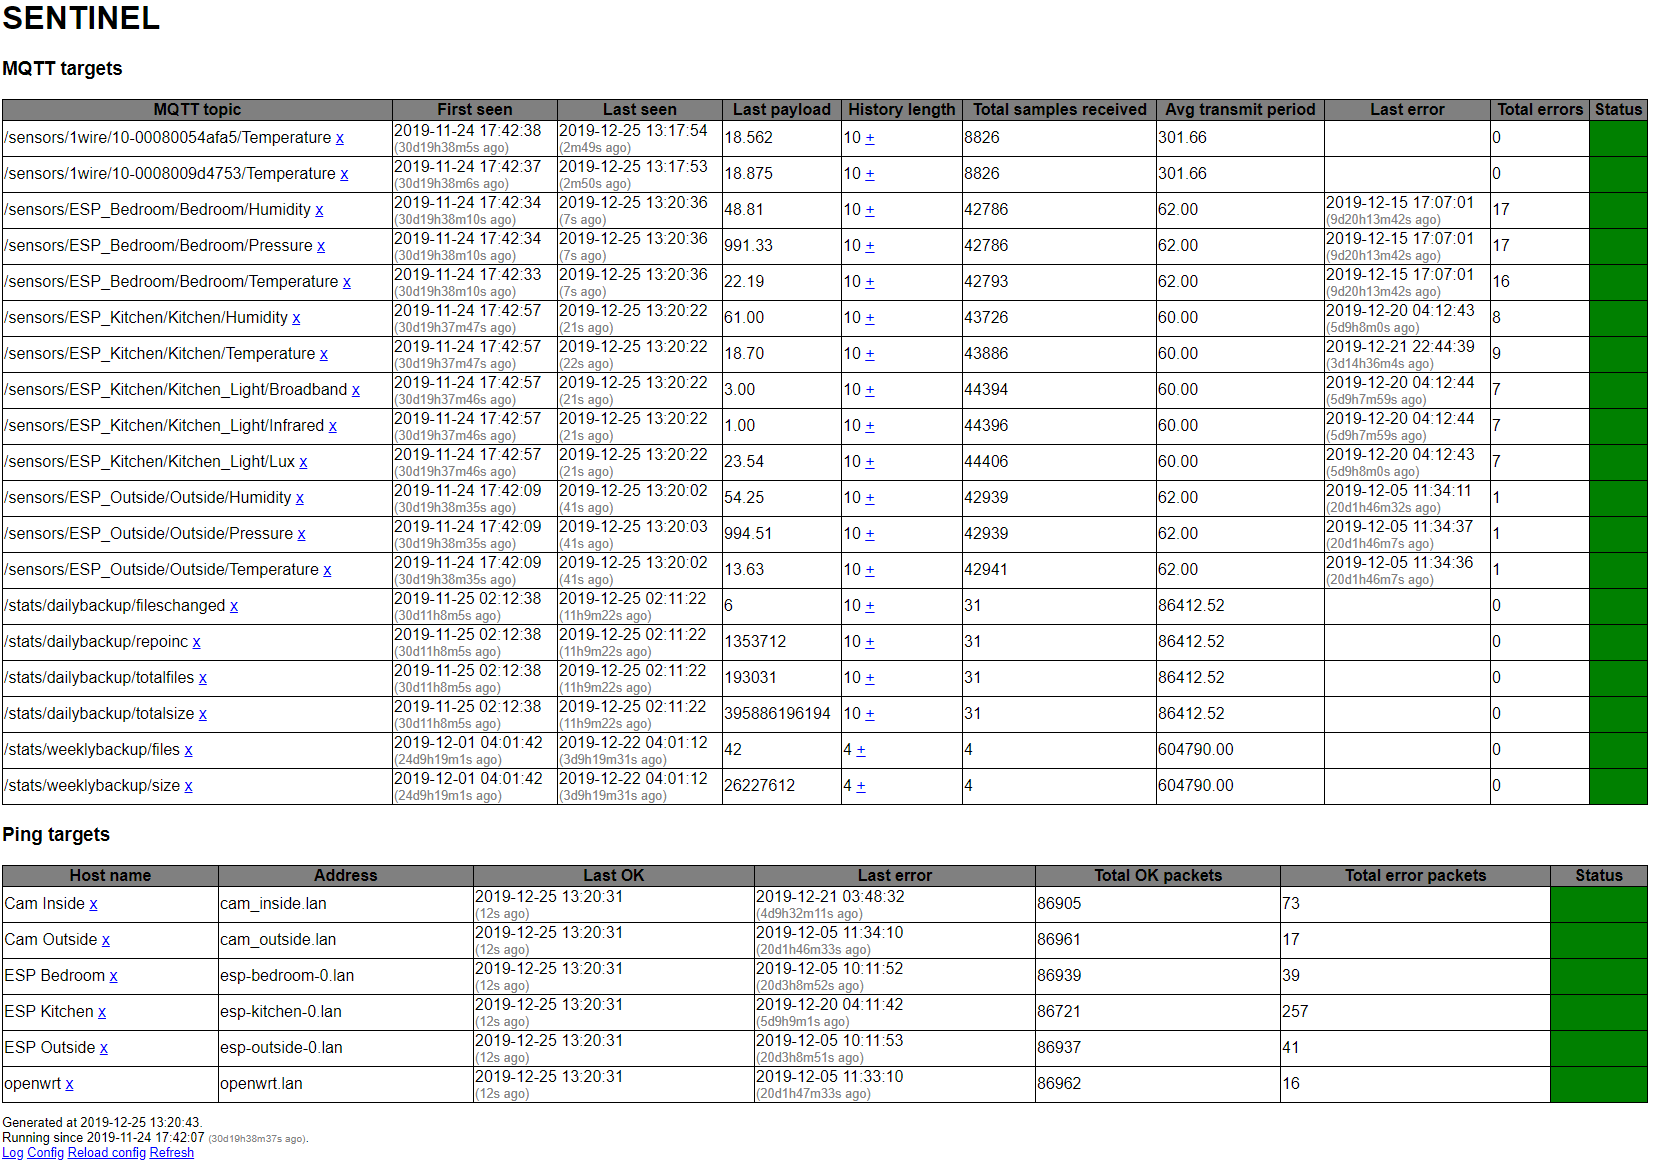
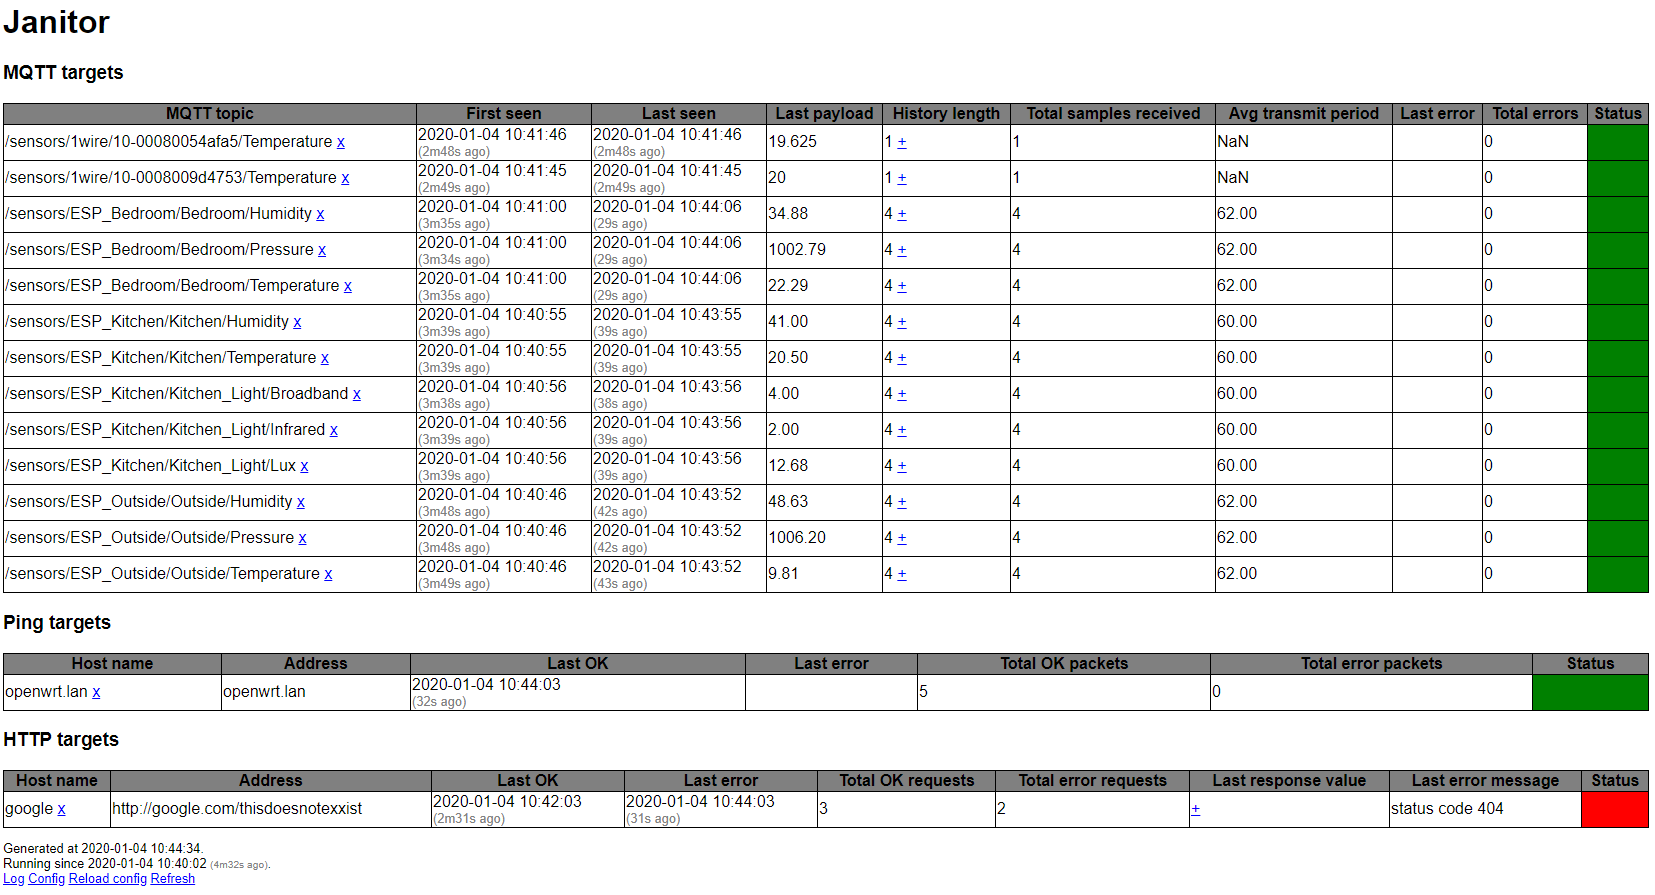
Added support for HTTP monitoring.

Changed region(s): [[0.0, 0.0, 1.0, 0.9955]]

diff --git a/templates/index.html b/templates/index.html
@@ -72,7 +72,7 @@
 		</script>
 	</head>
 	<body>
-		<h1>SENTINEL</h2>
+		<h1>Janitor</h2>
 		{{ if .MQTT }}
 		<h3>MQTT targets</h3>
 		<table>
@@ -187,8 +187,63 @@
 				<td class="status{{ $value.Status }}"></td>
 			</tr>
 			{{ end }}
-			</table>
+		</table>
 		{{ end }}
+
+		{{ if .HTTP}}
+		<h3>HTTP targets</h3>
+		<table>
+			<tr>
+				<th>Host name</th>
+				<th>Address</th>
+				<th>Last OK</th>
+				<th>Last error</th>
+				<th>Total OK requests</th>
+				<th>Total error requests</th>
+				<th>Last response value</th>
+				<th>Last error message</th>
+				<th>Status</th>
+			</tr>
+
+			{{ range $host, $value := .HTTP }}
+			<tr>
+				<td>
+					<form id="delete_http_{{ $value.Address }}" method="post" action="/delete">
+						<input type="hidden" name="type" value="http">
+						<input type="hidden" name="name" value="{{ $host }}">
+					</form>
+					{{ $host }}
+					<a href="javascript:submitForm('delete_http_{{ $value.Address }}')">x</a>
+				</td>
+				<td> {{ $value.Address }} </td>
+				<td>
+					{{ if not $value.LastOK.IsZero }}
+					{{ $value.LastOK.Format "2006-01-02 15:04:05" }}
+					<br />
+					<span class="relatime">({{ relaTime $value.LastOK }} ago)</span>
+					{{ end }}</td>
+				<td>
+					{{ if not $value.LastError.IsZero }}
+					{{ $value.LastError.Format "2006-01-02 15:04:05" }}
+					<br />
+					<span class="relatime">({{ relaTime $value.LastError }} ago)</span>
+					 {{ end }}</td>
+				<td> {{ $value.TotalOK }}</td>
+				<td> {{ $value.TotalError }}</td>
+				<td> 					
+					<a href="#" data-target="modal{{$value.Id}}" data-toggle="modal">+</a>
+					<div id="modal{{$value.Id}}" class="modal">
+						<div class="modal-window">
+							{{ $value.LastValue }}
+						</div>
+					</div></td>
+				<td> {{ $value.LastErrorValue }} </td>
+				<td class="status{{ $value.Status }}"></td>
+			</tr>
+			{{ end }}
+		</table>
+		{{ end }}
+
 		<p class="footer">
 			Generated at {{ .Timestamp.Format "2006-01-02 15:04:05" }}.
 			<br />

diff --git a/main.go b/main.go
@@ -41,12 +41,19 @@ type Config struct {
 		Password string
 		Topic    []string
 	}
-	History      int
+	MQTTHistory  int
 	PingInterval int
 	Ping         []struct {
 		Name    string
 		Address string
 	}
+	HTTP []struct {
+		Name    string
+		Address string
+		Value   string
+	}
+	HTTPInterval int
+	HTTPTimeout  int
 }
 
 type MQTTEntry struct {
@@ -76,13 +83,26 @@ type PingHost struct {
 	TotalError int64
 }
 
+type HTTPHost struct {
+	Id             uint64
+	Address        string
+	LastOK         time.Time
+	LastError      time.Time
+	LastValue      string
+	LastErrorValue string
+	Status         int32
+	TotalOK        int64
+	TotalError     int64
+}
+
 type PageData struct {
-	MQTT       *map[string]MQTTTopic
-	Ping       *map[string]PingHost
+	MQTT       map[string]MQTTTopic
+	Ping       map[string]PingHost
+	HTTP       map[string]HTTPHost
 	Timestamp  time.Time
 	Uptime     time.Time
 	Config     string
-	LogHistory *[]LogEntry
+	LogHistory []LogEntry
 }
 
 type LogEntry struct {
@@ -92,8 +112,10 @@ type LogEntry struct {
 
 var mqttTopics = make(map[string]MQTTTopic)
 var pingHosts = make(map[string]PingHost)
+var httpHosts = make(map[string]HTTPHost)
 var mqttTopicsLock = &sync.RWMutex{}
 var pingHostsLock = &sync.RWMutex{}
+var httpHostsLock = &sync.RWMutex{}
 
 var config = Config{}
 var logHistory []LogEntry
@@ -117,6 +139,10 @@ func main() {
 		go startPing()
 	}
 
+	if len(config.HTTP) > 0 {
+		go startHTTP()
+	}
+
 	http.HandleFunc("/", serveIndex)
 	http.HandleFunc("/reload_config", reloadConfig)
 	http.HandleFunc("/delete", deleteWebItem)
@@ -137,11 +163,17 @@ func loadConfig() {
 		panic(err)
 	}
 
-	if config.History == 0 {
-		config.History = 10
+	if config.MQTTHistory == 0 {
+		config.MQTTHistory = 10
 	}
 	if config.PingInterval == 0 {
 		config.PingInterval = 60
+	}
+	if config.HTTPInterval == 0 {
+		config.HTTPInterval = 60
+	}
+	if config.HTTPTimeout == 0 {
+		config.HTTPTimeout = 5000
 	}
 	if config.Web.Port == 0 {
 		config.Web.Port = 8080
@@ -190,6 +222,68 @@ func startPing() {
 			pingHostsLock.Unlock()
 		}
 		time.Sleep(time.Second * time.Duration(config.PingInterval))
+	}
+}
+
+func startHTTP() {
+	for {
+		debug("Starting http loop")
+		for _, host := range config.HTTP {
+			httpHostsLock.RLock()
+			e := httpHosts[host.Name]
+			httpHostsLock.RUnlock()
+
+			e.Id = hash(host.Address)
+			e.Address = host.Address
+
+			errValue := ""
+
+			client := http.Client{
+				Timeout: time.Millisecond * time.Duration(config.HTTPTimeout),
+			}
+			resp, err := client.Get(host.Address)
+			if err != nil {
+				errValue = err.Error()
+			} else if resp.StatusCode != http.StatusOK {
+				errValue = fmt.Sprintf("status code %d", resp.StatusCode)
+			} else {
+				defer resp.Body.Close()
+				bodyBytes, bodyErr := ioutil.ReadAll(resp.Body)
+				if bodyErr != nil {
+					errValue = bodyErr.Error()
+				} else {
+					e.LastValue = string(bodyBytes)
+					if host.Value != "" && !strings.Contains(e.LastValue, host.Value) {
+						errValue = "Response does not match pattern"
+					}
+				}
+			}
+
+			if errValue == "" {
+				debug("HTTP OK for " + host.Address)
+				if e.Status == 2 {
+					notify("✓ HTTP OK for " + host.Name + ", in error since " + relaTime(e.LastError) + " ago")
+				}
+				e.TotalOK++
+				e.LastOK = time.Now()
+				e.Status = 0
+			} else {
+				debug("HTTP error for " + host.Address)
+				if e.Status == 0 {
+					e.Status++
+				} else if e.Status == 1 {
+					e.Status++
+					e.LastError = time.Now()
+					notify("⚠ HTTP ERROR for " + host.Name + ", last ok " + relaTime(e.LastOK) + " ago")
+				}
+				e.TotalError++
+				e.LastErrorValue = errValue
+			}
+			httpHostsLock.Lock()
+			httpHosts[host.Name] = e
+			httpHostsLock.Unlock()
+		}
+		time.Sleep(time.Second * time.Duration(config.HTTPInterval))
 	}
 }
 
@@ -244,7 +338,7 @@ func onMessageReceived(client mqtt.Client, message mqtt.Message) {
 
 	e.Id = hash(message.Topic())
 	e.History = append(e.History, MQTTEntry{string(message.Payload()), time.Now()})
-	if len(e.History) > config.History {
+	if len(e.History) > config.MQTTHistory {
 		e.History = e.History[1:]
 	}
 
@@ -316,10 +410,12 @@ func serveIndex(w http.ResponseWriter, r *http.Request) {
 
 	mqttTopicsLock.RLock()
 	pingHostsLock.RLock()
-	tmpl.Execute(w, PageData{&mqttTopics, &pingHosts,
-		time.Now(), uptime, fmt.Sprintf("%+v", config), &logHistory})
+	httpHostsLock.RLock()
+	tmpl.Execute(w, PageData{mqttTopics, pingHosts, httpHosts,
+		time.Now(), uptime, fmt.Sprintf("%+v", config), logHistory})
 	mqttTopicsLock.RUnlock()
 	pingHostsLock.RUnlock()
+	httpHostsLock.RUnlock()
 }
 
 func reloadConfig(w http.ResponseWriter, r *http.Request) {
@@ -335,15 +431,24 @@ func deleteWebItem(w http.ResponseWriter, r *http.Request) {
 		switch r.Form["type"][0] {
 		case "mqtt":
 			if len(r.Form["name"]) > 0 {
+				mqttTopicsLock.Lock()
 				delete(mqttTopics, r.Form["name"][0])
+				mqttTopicsLock.Unlock()
 			}
 		case "ping":
 			if len(r.Form["name"]) > 0 {
+				pingHostsLock.Lock()
 				delete(pingHosts, r.Form["name"][0])
+				pingHostsLock.Unlock()
+			}
+		case "http":
+			if len(r.Form["name"]) > 0 {
+				httpHostsLock.Lock()
+				delete(httpHosts, r.Form["name"][0])
+				httpHostsLock.Unlock()
 			}
 		}
 	}
-	debug(fmt.Sprintf("%+v", r.Form))
 	http.Redirect(w, r, "/", http.StatusSeeOther)
 }
 

diff --git a/README.md b/README.md
@@ -7,12 +7,13 @@ Janitor does not aim to implement any additional functionalities, therefore is n
 Janitor currently supports the following monitoring methods:
 * **MQTT:** Janitor will subscribe to predefined MQTT topics and monitor incoming messages. An average transmit frequency will be calculated for each channel and in case no new messages are received within this interval, Janitor will alert you (the actual threshold used is 2 times the previous average frequency). This method is particulary useful for any kind of sensors submitting data regularly via MQTT (e.g. temperature).
 * **Ping:** Janitor will ping predefined hosts with a predefined frequency and will alert you in case of no reply (the actual threshold used is 2 consecutively missed pings). This method is useful for any kind of IOT devices e.g. sensors, cameras etc.
+* **HTTP:** Janitor will send a HTTP GET request to predefined addresses and check for reply, and, optionally, whether the reply contains a predefined string. Janitor will alert you in case of 2 consecutively unsuccessful requests. This method is useful for any kind of services with a web interface (e.g. APIs, hosted services etc.).
 
 Janitor currently supports the following alert methods:
 * **Telegram:** Janitor will send a message to a predefined Telegram channel.
 * **Gotify:** Janitor will send a push message to Gotify.
 
-Additionally, Janitor has a web interface where you can see the current status and historical data, remove sensors and reload the configuration file (see screenshot below).
+Additionally, Janitor has a web interface where you can see the current status and historical data, remove items and reload the configuration file (see screenshot below).
 
 ## Screenshot
 ![Screenshot](docs/screenshot.png)
@@ -43,14 +44,19 @@ This will create the standalone binary named `janitor` that you can place anywhe
 ## Configuration and usage
 
 For configuration, a YAML formatted file is required. Please use the [sample configuration file](config.yml) and change it according to your needs, particularly the following blocks:
-* mqtt: this block defines the server and topics for MQTT monitoring (can be omitted)
-* ping: this block defines the hosts for ping-based monitoring (can be omitted)
-* telegram: this block defines the token and chat id for Telegram (can be omitted)
-* gotify: this block defines the server and token for Gotify (can be omitted)
-* pinginterval: this variable defines the frequency for ping tests in seconds
-* web: this block defines the port for the built-in web server
-* history: this variable defines the number of records to keep per MQTT topic
-* debug: this variable enables debug mode with increased logging
+* `mqtt:` this block defines the server and topics for MQTT monitoring (default: none)
+* `mqtthistory:` this variable defines the number of records to keep per MQTT topic, used for calculating average transmission frequency (default: 10)
+* `ping:` this block defines the hosts for ping-based monitoring (default: none)
+* `pinginterval:` this variable defines the frequency for ping tests in seconds (default: 60)
+* `http:` this block defines the addresses for HTTP-based monitoring; if a value is specified, it is used for checking the content of the reply, otherwise all successful replies (status code 200) will be accepted (default: none)
+* `httpinterval:` this variable defines the frequency for http tests in seconds (default: 60)
+* `httptimeout:` this variable defines the timeout for HTTP requests in milliseconds (default: 5000)
+* `telegram:` this block defines the token and chat id for Telegram (default: none)
+* `gotify:` this block defines the server and token for Gotify (default: none)
+* `web:` this block defines the port for the built-in web server (default: 8080)
+* `debug:` this variable enables debug mode with increased logging (default: false)
+
+All variables are optional, e.g. in case you only want MQTT monitoring and Gotify notifications, include only those blocks. Where indicated above, default values will be used.
 
 Once you created a configuration file, Janitor can be launched as follows:
 
